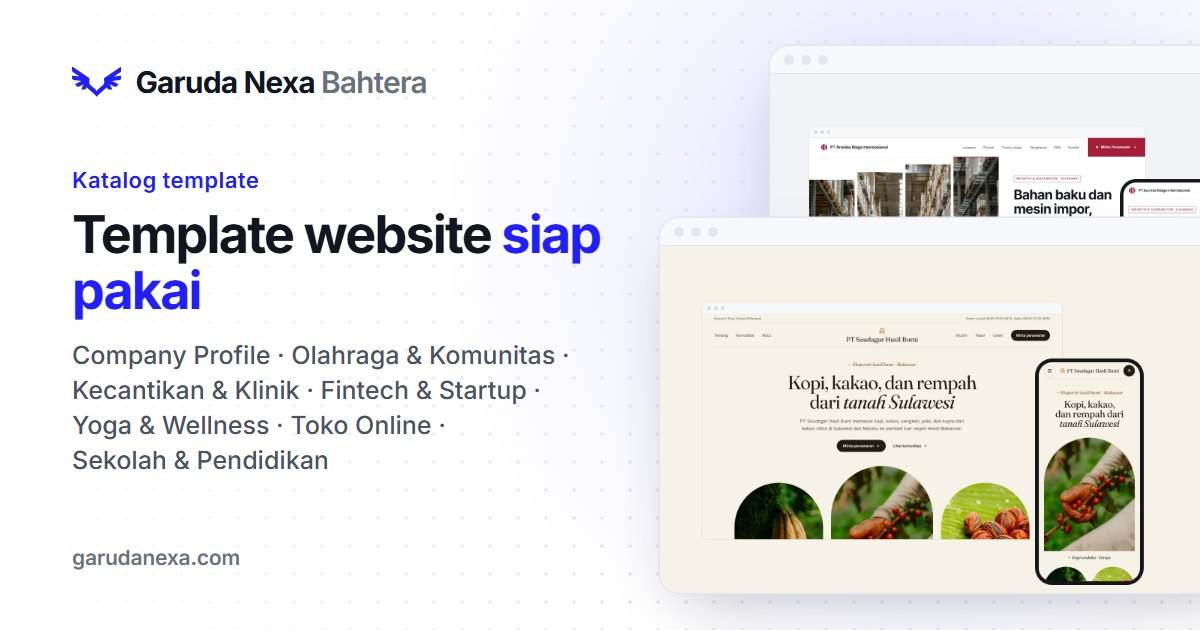
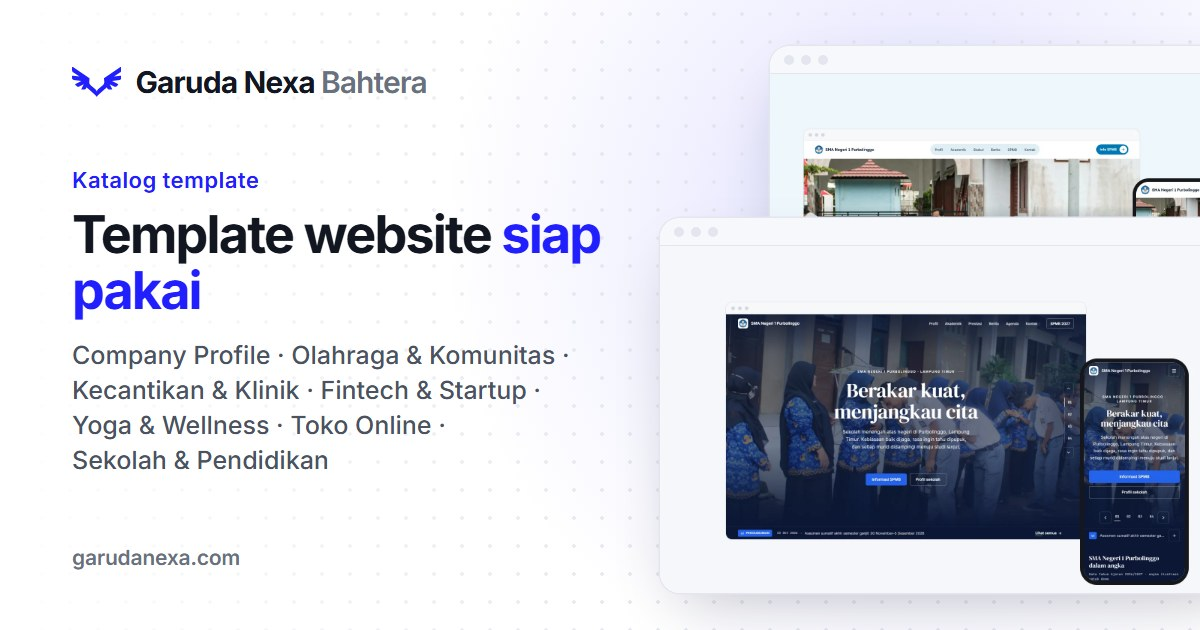
feat(seo): OG cards for Jumantara, Nawasena and Pradipta
Rendered with scripts/seo/og-images.mjs --only cards against the local API; the
catalog card picks up the new templates too.

Changed region(s): [[0.5858, 0.4825, 1.0, 0.9349], [0.6475, 0.2111, 1.0, 0.3619]]

diff --git a/src/seo/ogCards.generated.ts b/src/seo/ogCards.generated.ts
@@ -25,9 +25,12 @@ export const OG_CARDS: readonly string[] = [
   'template-finova',
   'template-gadgetku',
   'template-glowstory',
+  'template-jumantara',
   'template-madani',
+  'template-nawasena',
   'template-nusaniaga',
   'template-portline',
+  'template-pradipta',
   'template-puncakgear',
   'template-saudagar',
   'template-serenity',
